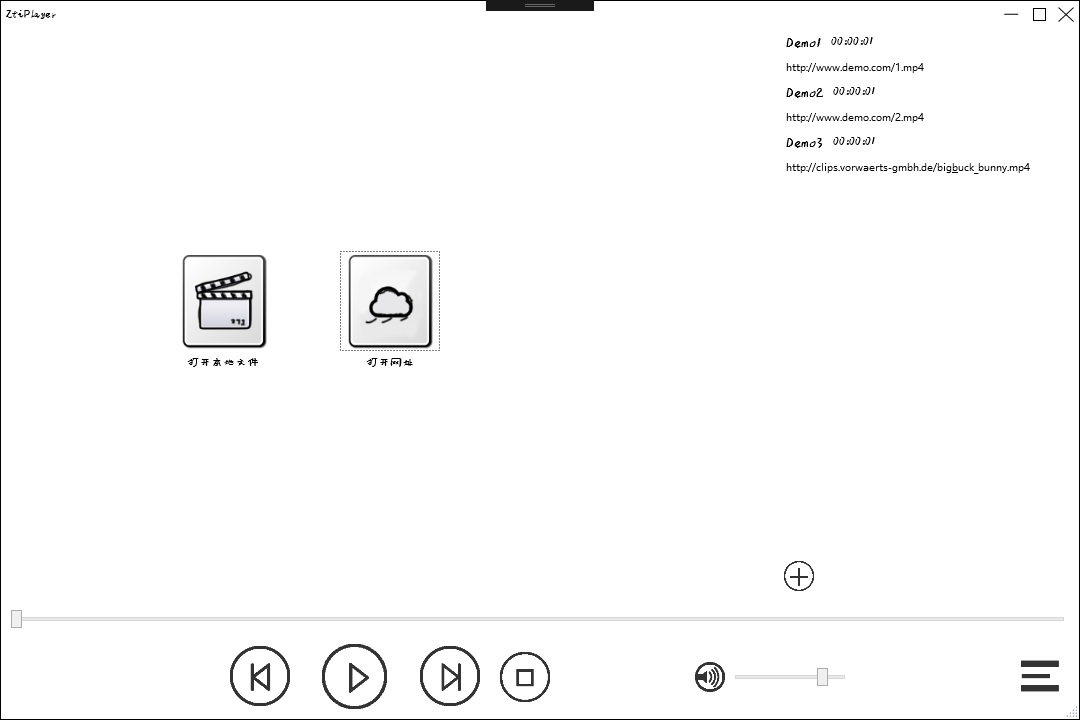
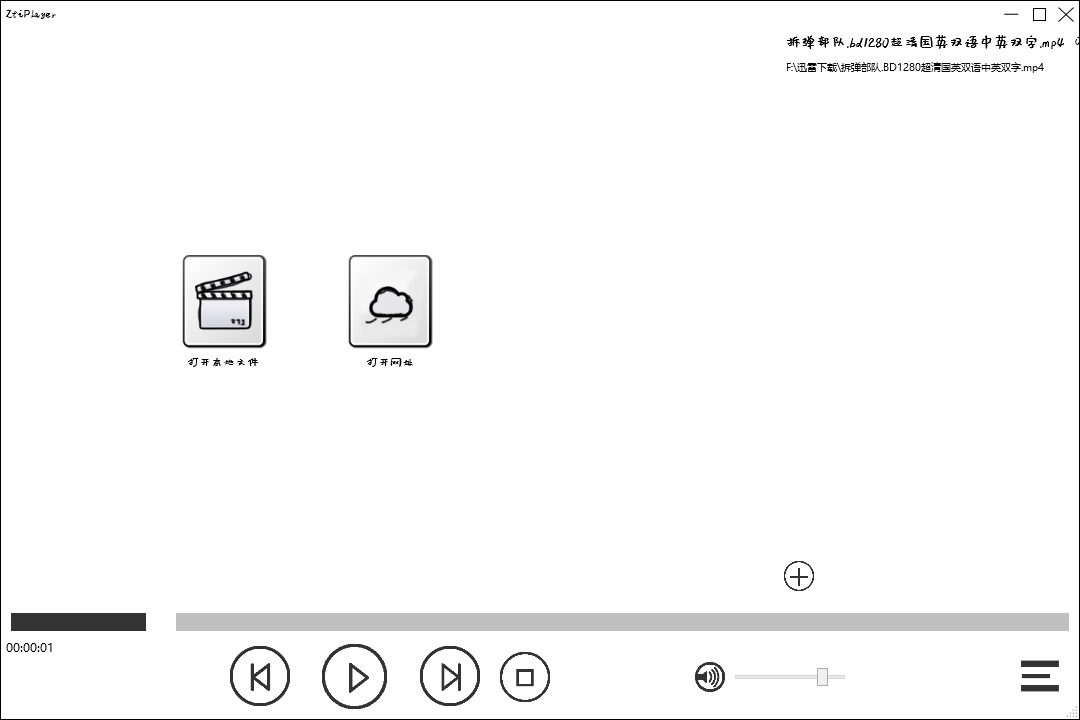
update slider style

Changed region(s): [[0.0, 0.825, 1.0, 0.9167], [0.7333, 0.0306, 0.9778, 0.2444], [0.4278, 0.0, 0.55, 0.0306]]

diff --git a/Style/SliderStyle.xaml b/Style/SliderStyle.xaml
@@ -1,0 +1,63 @@
+<ResourceDictionary xmlns="http://schemas.microsoft.com/winfx/2006/xaml/presentation"
+                    xmlns:x="http://schemas.microsoft.com/winfx/2006/xaml">
+
+    <Style x:Key="DecreaseRepeatButtonStyle" TargetType="RepeatButton">
+        <Setter Property="Focusable" Value="false" />
+        <Setter Property="Template">
+            <Setter.Value>
+                <ControlTemplate TargetType="RepeatButton">
+                    <Border Background="Black"  Opacity=".8"/>
+                </ControlTemplate>
+            </Setter.Value>
+        </Setter>
+    </Style>
+
+    <Style x:Key="IncreaseRepeatButtonStyle" TargetType="RepeatButton">
+        <Setter Property="Focusable" Value="false" />
+        <Setter Property="Template">
+            <Setter.Value>
+                <ControlTemplate TargetType="RepeatButton">
+                    <Border Background="Silver" />
+                </ControlTemplate>
+            </Setter.Value>
+        </Setter>
+    </Style>
+
+    <Style x:Key="ThumbStyle" TargetType="Thumb">
+        <Setter Property="Focusable" Value="false" />
+        <Setter Property="Template">
+            <Setter.Value>
+                <ControlTemplate TargetType="Thumb">
+                    <Border Background="White" CornerRadius="3"  Width="30"/>
+                </ControlTemplate>
+            </Setter.Value>
+        </Setter>
+    </Style>
+
+    <Style x:Key="SliderStyle" TargetType="Slider">
+        <Setter Property="Focusable" Value="false" />
+        <Setter Property="Template">
+            <Setter.Value>
+                <ControlTemplate TargetType="Slider">
+                    <Grid>
+                        <Border Grid.Column="1">
+                            <Track Grid.Column="1" Name="PART_Track">
+                                <Track.DecreaseRepeatButton>
+                                    <RepeatButton Style="{StaticResource DecreaseRepeatButtonStyle}"
+                                Command="Slider.DecreaseLarge"/>
+                                </Track.DecreaseRepeatButton>
+                                <Track.IncreaseRepeatButton>
+                                    <RepeatButton Style="{StaticResource IncreaseRepeatButtonStyle}"
+                                Command="Slider.IncreaseLarge"/>
+                                </Track.IncreaseRepeatButton>
+                                <Track.Thumb>
+                                    <Thumb Style="{StaticResource ThumbStyle}"/>
+                                </Track.Thumb>
+                            </Track>
+                        </Border>
+                    </Grid>
+                </ControlTemplate>
+            </Setter.Value>
+        </Setter>
+    </Style>
+</ResourceDictionary>

diff --git a/MainWindow.xaml b/MainWindow.xaml
@@ -143,7 +143,7 @@
             </Grid.RowDefinitions>
 
             <Grid Grid.Row="0">
-                <Slider Margin="10,10,10,0" Name="slider_Progress" Minimum="0" TickFrequency="1"  Thumb.DragCompleted="slider_Progress_DragCompleted"></Slider>              
+                <Slider Margin="10,10,10,0" Height="18" Name="slider_Progress" Minimum="0" TickFrequency="1" Style="{StaticResource SliderStyle}"  Thumb.DragCompleted="slider_Progress_DragCompleted"></Slider>              
             </Grid>
 
             <Grid Grid.Row="1" >

diff --git a/App.xaml b/App.xaml
@@ -11,7 +11,7 @@
                 <ResourceDictionary Source="Style/FontStyle.xaml"/>
                 <ResourceDictionary Source="Style/ButtonStyle.xaml"/>
                 <ResourceDictionary Source="Style/MenuStyle.xaml"/>
-
+                <ResourceDictionary Source="Style/SliderStyle.xaml"/>
             </ResourceDictionary.MergedDictionaries>
         </ResourceDictionary>
     </Application.Resources>

diff --git a/App.xaml.cs b/App.xaml.cs
@@ -111,12 +111,12 @@ namespace ZtiPlayer
 
         private void StartReceiveMessageThread()
         {
-
+            //TODO
         }
 
         private void ReceiveMessage()
         {
-
+            //TODO
         }
 
         private void CheckSingleInstance()
